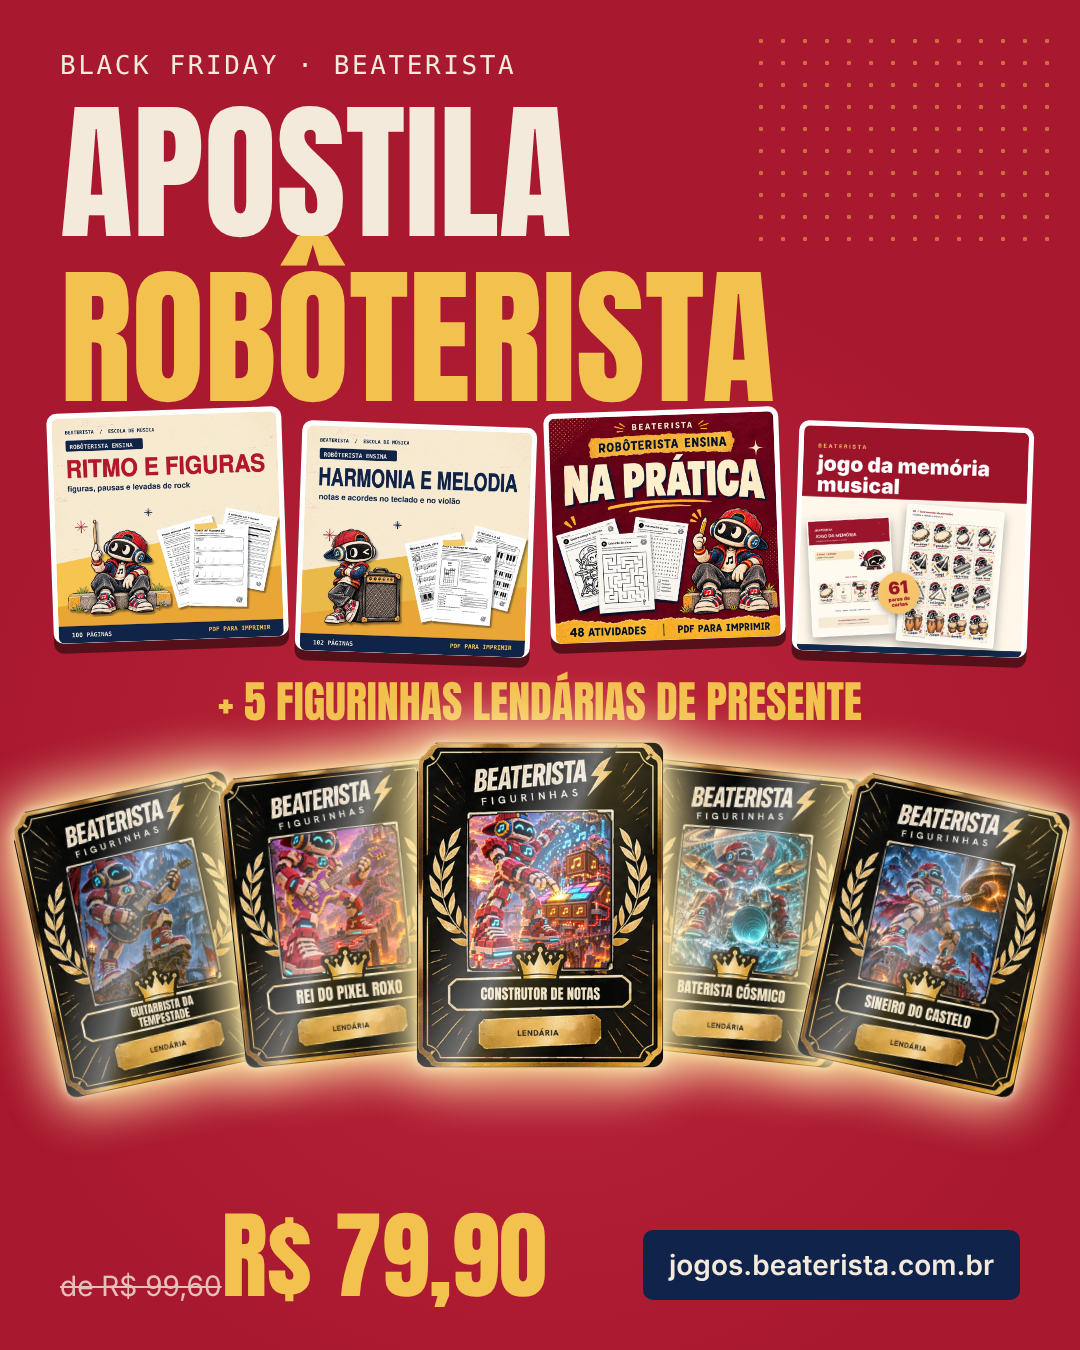
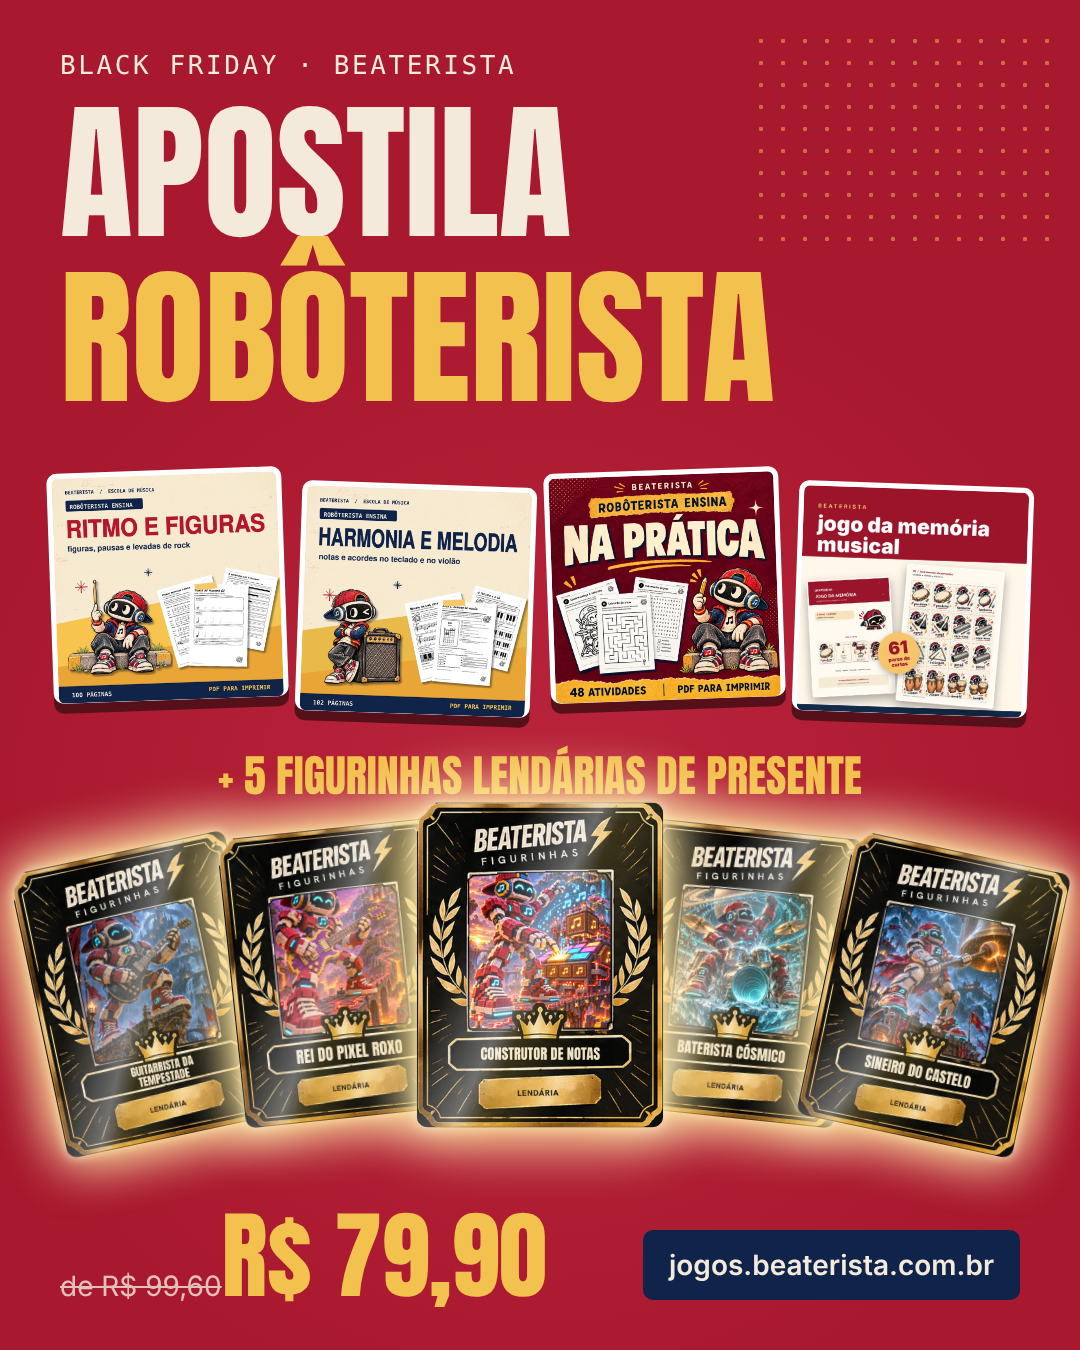
Kit: desce capas e lendárias no feed
Claude-Session: https://claude.ai/code/session_017Ekti1GX9ozYE3rJDxhECA

diff --git a/assets/originals/artes-beaterista/kit-roboterista/arte-feed.html b/assets/originals/artes-beaterista/kit-roboterista/arte-feed.html
@@ -7,8 +7,8 @@ h1{position:absolute;left:60px;top:90px;font-size:150px;line-height:1.1;font-wei
 .prods{position:absolute;left:50px;right:50px;top:420px;display:flex;gap:14px}
 .prods div{flex:1;background:#fff;border-radius:10px;padding:5px 5px 0;overflow:hidden;align-self:flex-start;box-shadow:0 10px 0 #55101a;transform:rotate(-2deg)}.prods div:nth-child(even){transform:rotate(2deg) translateY(14px)}
 .prods img{width:100%;display:block;border-radius:6px}
-.mais{position:absolute;top:668px;left:0;right:0;text-align:center;font-size:44px;color:#f2c14e}
-.cards{position:absolute;left:40px;right:40px;top:760px;display:flex;justify-content:center}
+.mais{position:absolute;top:742px;left:0;right:0;text-align:center;font-size:44px;color:#f2c14e}
+.cards{position:absolute;left:40px;right:40px;top:820px;display:flex;justify-content:center}
 .c{width:230px;margin:0 -10px;position:relative;filter:drop-shadow(0 0 28px #ffd866) drop-shadow(0 0 6px #fff)}
 .c:nth-child(1){transform:rotate(-12deg) translateY(30px)}.c:nth-child(2){transform:rotate(-6deg) translateY(8px)}.c:nth-child(4){transform:rotate(6deg) translateY(8px)}.c:nth-child(5){transform:rotate(12deg) translateY(30px)}.c:nth-child(3){z-index:2;transform:scale(1.12)}
 .c img{width:100%;display:block;border-radius:10px}
@@ -18,7 +18,7 @@ h1{position:absolute;left:60px;top:90px;font-size:150px;line-height:1.1;font-wei
 .btn{position:absolute;right:60px;bottom:50px;background:#10234a;padding:18px 26px;border-radius:10px;font:600 28px system-ui}
 </style></head><body><div class="bg"></div><div class="dots"></div>
 <div class="t">BLACK FRIDAY · BEATERISTA</div><h1>Apostila<em>Robôterista</em></h1>
-<div class="prods" style="top:410px"><div><img src="img/ritmo.png"></div><div><img src="img/harmonia.png"></div><div><img src="img/pratica.png"></div><div><img src="img/memoria-quadrada.png"></div></div>
+<div class="prods" style="top:470px"><div><img src="img/ritmo.png"></div><div><img src="img/harmonia.png"></div><div><img src="img/pratica.png"></div><div><img src="img/memoria-quadrada.png"></div></div>
 <div class="mais" style="font-weight:400">+ 5 FIGURINHAS LENDÁRIAS DE PRESENTE</div>
 <div class="cards"><div class="c"><img src="lendarias-png/lendaria-01.png"></div><div class="c"><img src="lendarias-png/lendaria-02.png"></div><div class="c"><img src="lendarias-png/lendaria-03.png"></div><div class="c"><img src="lendarias-png/lendaria-04.png"></div><div class="c"><img src="lendarias-png/lendaria-05.png"></div></div>
 <div class="preco"><div><s>de R$ 99,60</s><b>R$ 79,90</b></div></div>
